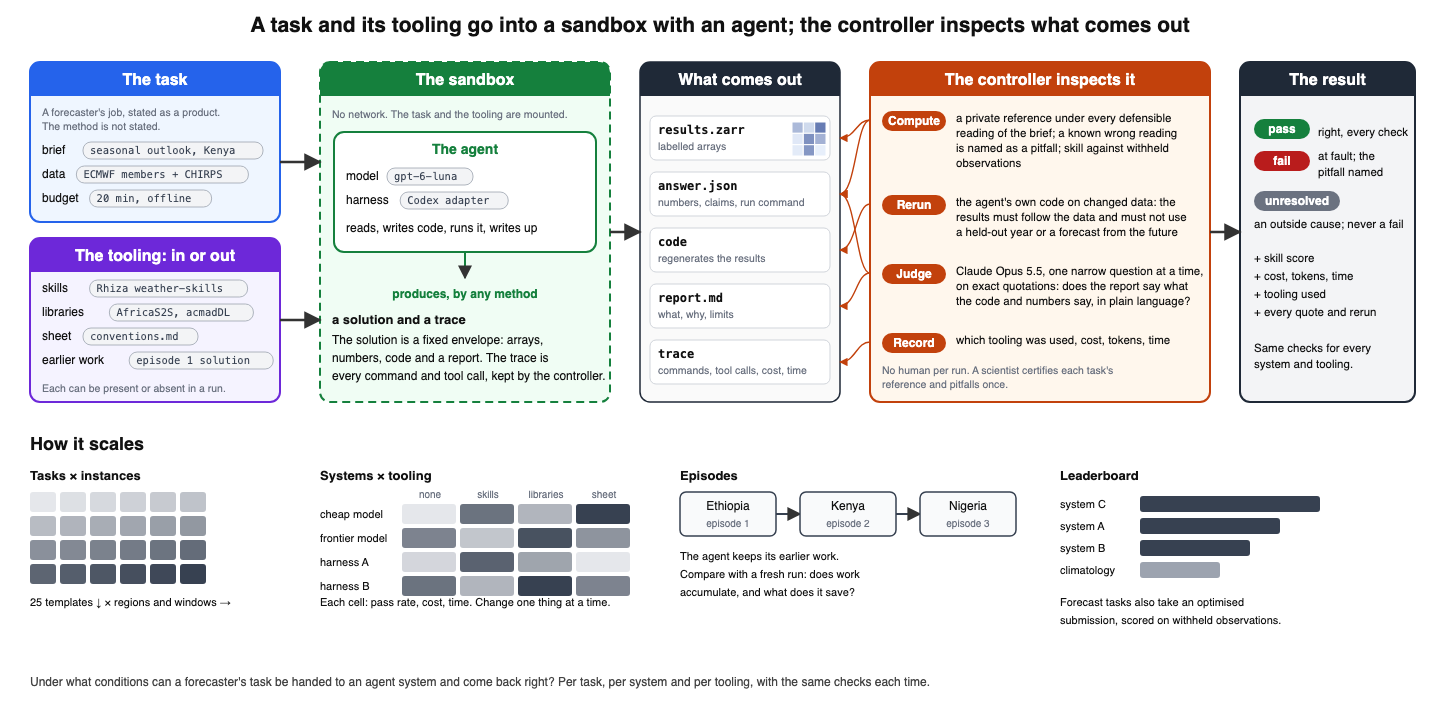
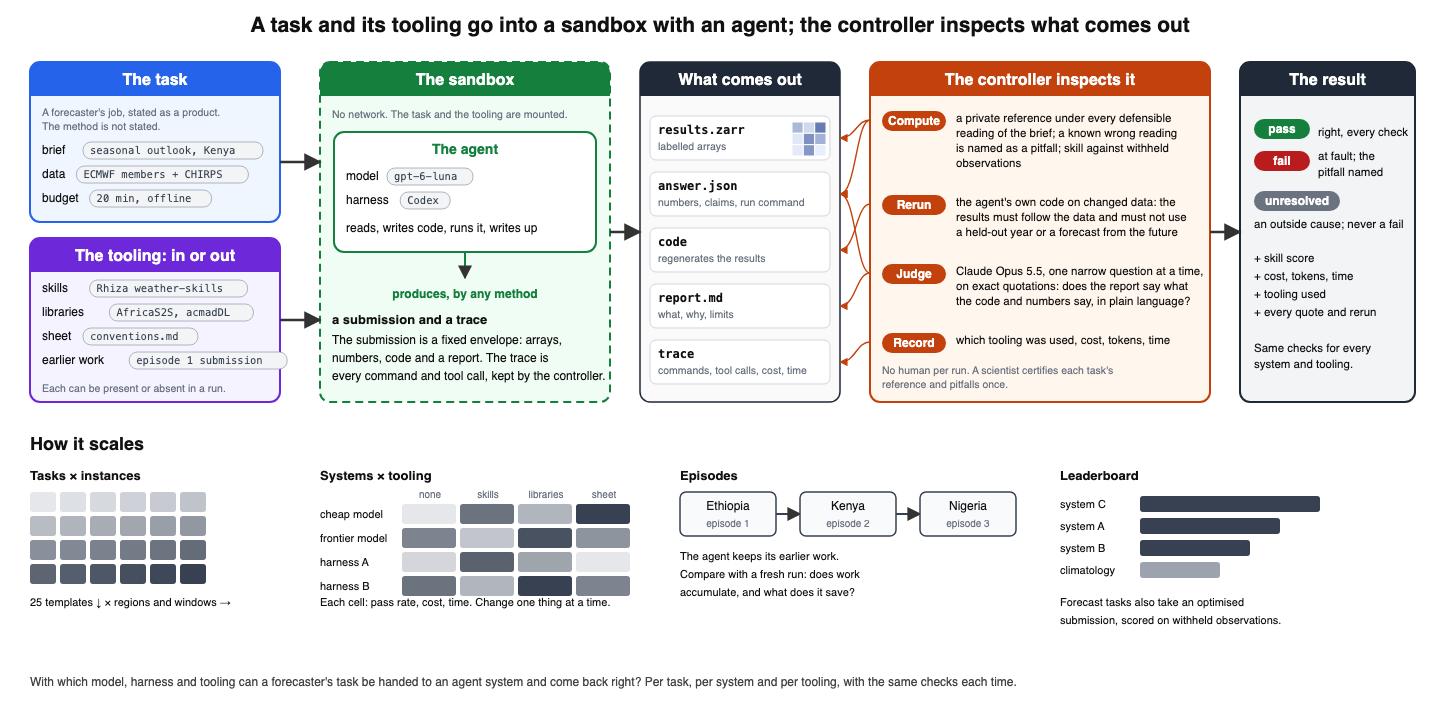
Rebuild the figures; final consistency pass

diff --git a/assessment/__main__.py b/assessment/__main__.py
@@ -36,7 +36,7 @@ def main():
         command.add_argument("--no-judge", action="store_true", help="Leave the judge questions unresolved")
     sub.add_parser("attempts").add_argument("template")
     for command in (certify, assess):
-        command.add_argument("--local-trusted", action="store_true", help="Run without Docker. Only for the controller's own control solutions.")
+        command.add_argument("--local-trusted", action="store_true", help="Run without Docker. Only for the controller's own control submissions.")
         command.add_argument("--image")
     args = parser.parse_args()
     try:

diff --git a/assessment/certify.py b/assessment/certify.py
@@ -1,8 +1,8 @@
 """The five certification tests for a template's spec (docs/assessment-format.md).
 
 1. Two independent reference implementations agree.
-2. A known-correct solution passes every check.
-3. Deliberately incorrect solutions are caught by the right check.
+2. A known-correct submission passes every check.
+3. Deliberately incorrect submissions are caught by the right check.
 4. The separability of every accepted-pitfall pair is measured and recorded.
 5. Model attempts are run and every unknown answer is ruled on.
 

diff --git a/assessment/runner.py b/assessment/runner.py
@@ -1,7 +1,7 @@
 """Launch one system on one instance of a template, then assess its submission.
 
 Reuses the existing harness pieces unchanged: system definitions, the Docker tool
-sandbox, the adapter protocol and the substrate-use monitor. The controller, not
+sandbox, the adapter protocol and the tooling-use record (substrate_use.py). The controller, not
 the agent, keeps the provenance record.
 """
 import json

diff --git a/assessment/calibration.py b/assessment/calibration.py
@@ -1,4 +1,4 @@
-"""Cases with known answers for the judge, as the control solutions are for the computed checks.
+"""Cases with known answers for the judge, as the control submissions are for the computed checks.
 
 Each case is a small submission with one planted defect, or none, and one
 question. The pinned judge must return the expected verdict with quotations that

diff --git a/docs/task-set.md b/docs/task-set.md
@@ -215,7 +215,7 @@ observed rainfall.
   (templates 5, 7, 8, 9, 18), plus the diagnostic pack.
 - **By level:** 13 have an optimize level now or by design, 2 can gain one
   later (templates 8 and 10), and 10 are produce-only.
-- **By readiness:** 10 were packaged for the first evaluator (now archived), 6 have briefs and
+- **By readiness:** 10 were built for the first evaluator (now archived), 6 have briefs and
   answer keys in the old repository, and 9 must be built. Three templates are
   converted to the new assessment format: template 4 in product mode, template 15 in
   outcome mode with both levels, and template 11 in process mode.
